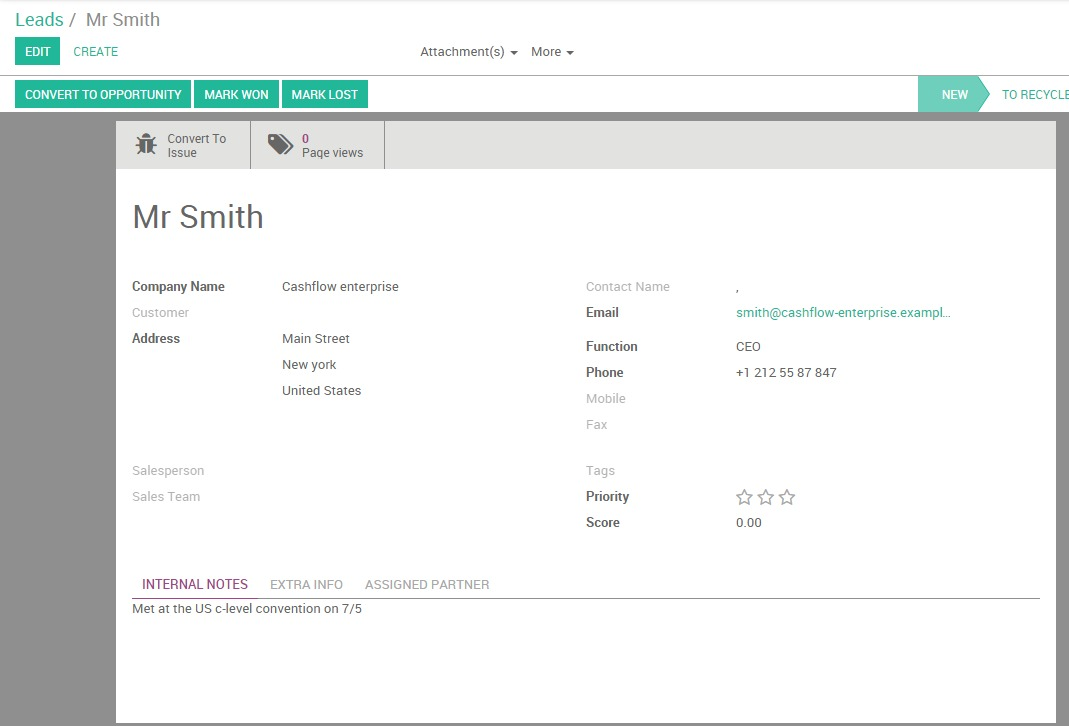
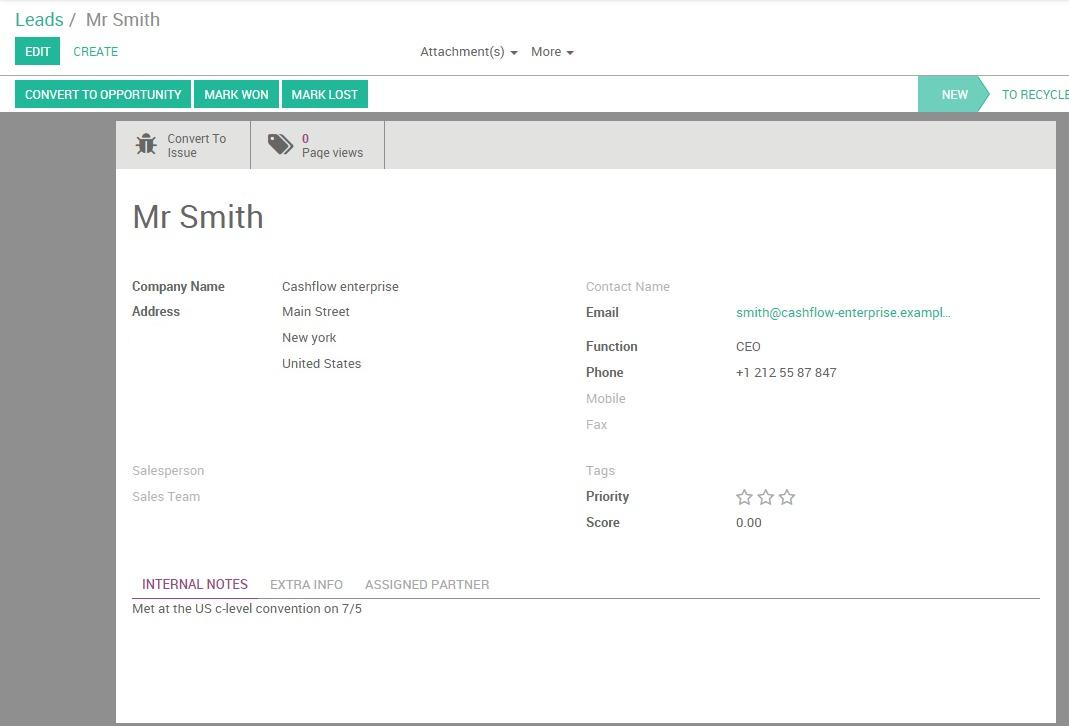
[IMP] crm: remove customer field information from lead form doc (no longer visible)

diff --git a/crm/leads/generate/manual.rst b/crm/leads/generate/manual.rst
@@ -32,9 +32,7 @@ Go to :menuselection:`Sales --> Leads` and click the **Create** button.
 
 From the contact form, provide all the details in your possession
 (contact name, email, phone, address, etc.) as well as some additional
-information in the **Internal notes** field. You can also link the
-lead to an existing company by editing the**Customer** field. Click
-on save and the contact will be visible as a lead in your pipeline .
+information in the **Internal notes** field.
 
 .. note::
 
